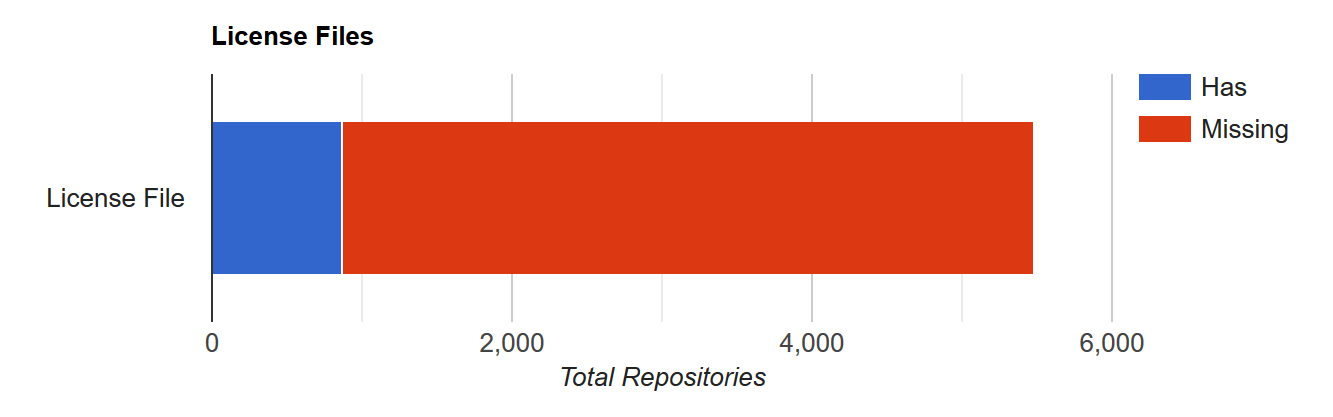
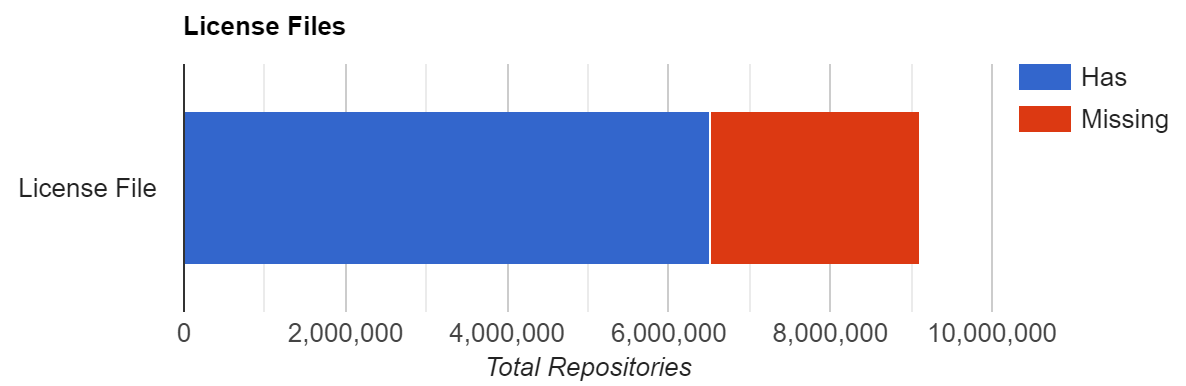
Update the things

diff --git a/content/posts/an-informal-survey-of-10-million-github-bitbucket-gitlab-projects.md b/content/posts/an-informal-survey-of-10-million-github-bitbucket-gitlab-projects.md
@@ -1,5 +1,5 @@
 ---
-title: An informal survey of 12 million git projects from Github, Bitbucket and Gitlab
+title: An informal survey of 10 million git projects from Github, Bitbucket and Gitlab
 date: 2019-07-11
 ---
 
@@ -9,18 +9,18 @@ However if I am going to run it over all that code anyway I may as well try to g
 
 In this post I am looking at all the code I downloaded and processed using `scc`. The data set I looked at includes,
 
- - **5,483** repositories
- - **842** empty repositories
- - **28,529** files
- - **7,069,681,918** bytes
- - **168,603,755** lines
- - **129,411,063** code lines
- - **16,584,855** blank lines
- - **22,607,837** comment lines
- - **10,330,300** estimated complexity 
- - **6,325** Bitbucket repositories
+ - **9,100,083** repositories
+ - **884,968** empty repositories with no files
+ - **58,389,641** files
+ - **40,736,530,379,778** bytes
+ - **1,086,723,618,560** lines
+ - **816,822,273,469** code lines
+ - **124,382,152,510** blank lines
+ - **145,519,192,581** comment lines 
+ - **71,884,867,919** complexity count
+ - **83,407** seconds to process
 
-It took over 24 hours to process the results and took about 5 weeks to download and run `scc` over the repositories.
+It took just under a day to process the results and about 5 weeks to download and run `scc` over all of the repositories.
 
 ## Methodology
 
@@ -114,12 +114,12 @@ We know that the most common filenames, but what about knowing
 
 ### How many repositories appear to be missing a license?
 
-This is an interesting one. Which repositories have an explicit license file somewhere? Not that the lack of a license file does not mean that the project has none, it might exist within the README for example but considering that the flow for most new repositories ask if you want to setup a license this surprised me.
+This is an interesting one. Which repositories have an explicit license file somewhere? Not that the lack of a license file does not mean that the project has none, it might exist within the README for example.
 
 | has license | count |
 | ----------- | ----- |
-| yes | 864 |
-| no | 4619 |
+| yes | 6,502,753 |
+| no | 2,597,330 |
 
 ![scc-data process load](/static/an-informal-survey/hasLicense.png#center)
 
@@ -151,7 +151,7 @@ While not accurate at all and it misses all manner of things it is incredibly fu
 | Dart | 1 |
 | Groovy | 3 |
 
-Interesting! Those naught C developers! However what I really want to know is what are the most commonly used curse words.
+Interesting! Those naughty C developers! However what I really want to know is what are the most commonly used curse words. Lets see collectively how dirty a mind we have.
 
 | word | count |
 | ---- | ----- |
@@ -160,34 +160,54 @@ Interesting! Those naught C developers! However what I really want to know is wh
 | knob | 4 |
 
 
-### Top 20 longest files in lines per language
+### Top 40 longest files in lines per language
 
-As you would probably expect Plain Text, SQL, XML and CSV take the top positions of this one, seeing as they usually contain metadata, database dumps and the like.
+As you would probably expect Plain Text, SQL, XML, JSON and CSV take the top positions of this one, seeing as they usually contain metadata, database dumps and the like.
 
-TODO ADD LINK TO FILE
+Limited to 40 because at some point there is only a hello world example or such available and the result is not very interesting.
 
 | language | filename | lines |
 | -------- | -------- | ----- |
-| Plain Text | largeT.txt | 1000000 |
-| SQL | f100.sql | 815560 |
-| XML | orderdetails_rand_20000.xml | 480011 |
-| CSV | real-ckjm.csv | 346438 |
-| Python | qrc_resources_rc.py | 212466 |
-| C | sqlite3.c | 131068 |
+| JSON | model.json | 11313134 |
+| Sass | large_empty.scss | 10000000 |
+| CSV | return_data_sp500.csv | 6486577 |
+| Plain Text | bgramPickle.txt | 5264667 |
+| SQL | V1_08.12.2014.13.44__T_ADDRESS_DATA.sql | 914442 |
+| XML | 13.xml | 463337 |
+| SVG | membres-publications.svg | 444080 |
+| C Header | firmware_nautilus_2_0-3006x_nscd.h | 417297 |
+| JavaScript | mandreel.js | 277403 |
+| C | sqlite3.c | 141343 |
+| PHP | Players.php | 131168 |
+| Java | ClientService.java | 121051 |
 | HTML | benchmark.html | 111608 |
-| C Header | banana.h | 96704 |
-| JavaScript | sencha-touch-all-debug.js | 85550 |
-| Game Maker Language | polblogs.gml | 85304 |
-| Patch | 0014-import-compat-headers.patch | 82118 |
-| PHP | en.php | 68830 |
-| YAML | pgts.yaml | 62356 |
-| Autoconf | B-large-practice.in | 51847 |
-| Objective C | TrialData000_1347_03_04_2013.m | 48539 |
-| Perl | Grammar.pm | 47955 |
-| SVG | Milky set.svg | 35002 |
-| JSON | khanhist_aligned.json | 29626 |
-| C++ | vmetst_v7.cpp | 25618 |
-| Assembly | fpsp.S | 24785 |
+| Patch | klips.patch | 111156 |
+| Perl | Language_Codes.pm | 97190 |
+| Assembly | CIDE.S | 94241 |
+| Prolog | CIDE.P | 68311 |
+| C++ | LuaCocos2d.cpp | 67887 |
+| Autoconf | Makefile.in | 52450 |
+| HEX | ipw2100-1.3.fw.hex | 26149 |
+| Python | ClientService.py | 25602 |
+| C# | Reference.cs | 23985 |
+| CSS | xenon.css | 22560 |
+| Lua | weaponfactorytweakdata.lua | 21229 |
+| TeX | xenapi-datamodel.tex | 20245 |
+| LaTeX | TeXbyTopic.tex | 19093 |
+| Intel HEX | bnx2x-e2-7.2.51.0.fw.ihex | 18459 |
+| Ruby | markdown.rb | 15961 |
+| Happy | gram.y | 14004 |
+| SystemVerilog | multiplier_32b.v | 13932 |
+| Emacs Lisp | color-theme-library.el | 13539 |
+| ASP.NET | AdminService_14.asmx | 13234 |
+| Batch | cpanm.bat | 12633 |
+| Shell | ltmain.sh | 11030 |
+| m4 | aclocal.m4 | 10027 |
+| Makefile | snort.mak | 9996 |
+| Vim Script | netrw.vim | 9858 |
+| ActionScript | ListBase.as | 9397 |
+| gitignore | .gitignore | 9066 |
+| TypeScript | mumble_de.ts | 9013 |
 
 ### Whats the largest file for each language?
 
